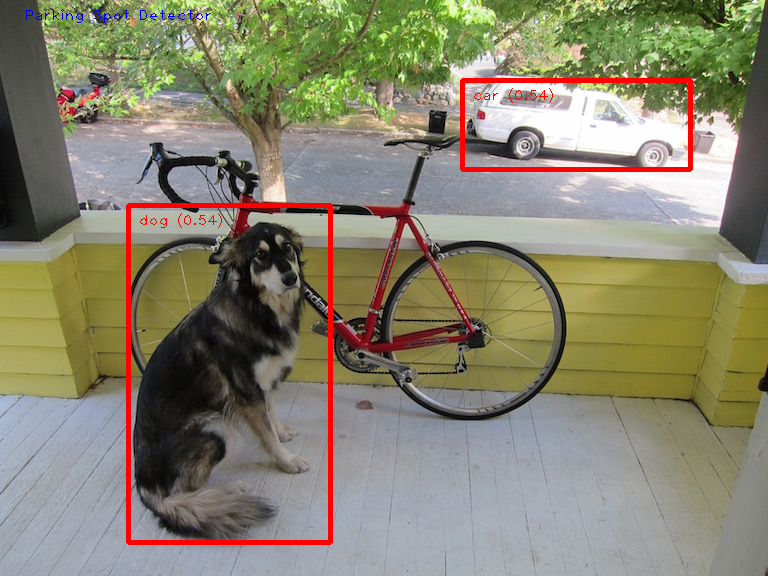
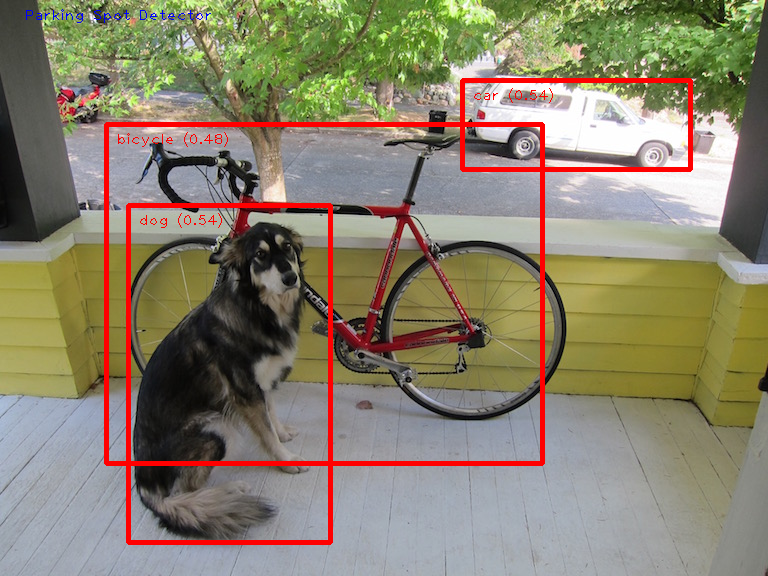
fix: threashold changed back to 0.3

Changed region(s): [[0.125, 0.1875, 0.7188, 0.8125]]

diff --git a/ObjectDetector.py b/ObjectDetector.py
@@ -16,7 +16,7 @@ def run(model: str, camera_id: int, width: int, height: int, num_threads: int,
     base_options = core.BaseOptions(
       file_name=model, use_coral=enable_edgetpu, num_threads=num_threads)
     detection_options = processor.DetectionOptions(
-      score_threshold=0.5)
+      score_threshold=0.3)
     options = vision.ObjectDetectorOptions(
       base_options=base_options, detection_options=detection_options)
     detector = vision.ObjectDetector.create_from_options(options)
